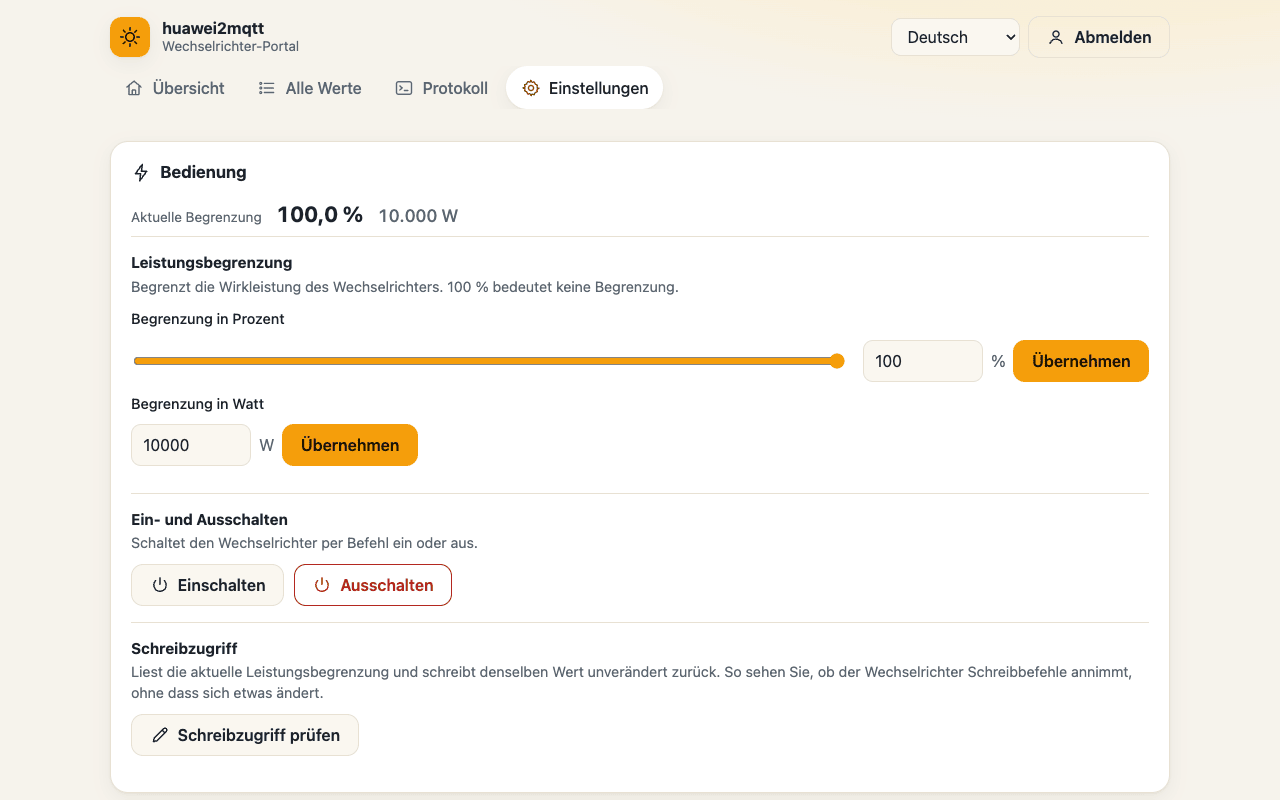
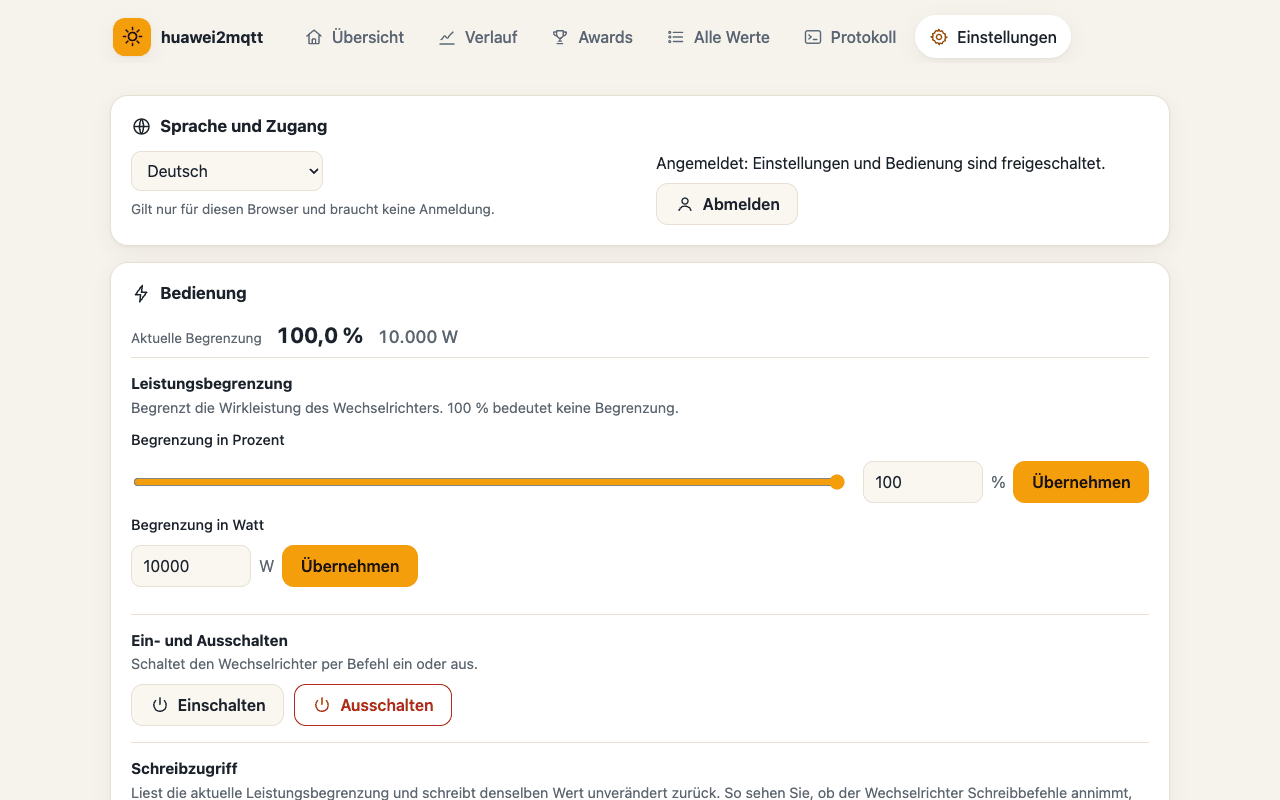
fix(REQ-024,REQ-028): Spitzen-Uhrzeit mobil unter dem Wert; docs(REQ-031): neue Screenshots inkl. Verlauf und Awards
Claude-Session: https://claude.ai/code/session_01X5kKRYZkw7YbdxUUKAwNhY

diff --git a/web/static/app.css b/web/static/app.css
@@ -140,7 +140,8 @@ main { max-width: 1100px; margin: 0 auto; padding: 1rem 1.25rem 3rem; outline: n
   .hero-side { width: 100%; align-items: center; }
   .state-pill { align-self: center; }
   .kpis { width: 100%; grid-template-columns: 1fr 1fr; }
-  .kpi:nth-child(3) { grid-column: 1 / -1; flex-direction: row; align-items: baseline; justify-content: space-between; gap: .75rem; }
+  .kpi:nth-child(3) { grid-column: 1 / -1; }
+  .kpi-v small.at { display: block; margin-left: 0; }
   .big { font-size: 2.5rem; }
   .kpi-v { font-size: 1.3rem; }
 }

diff --git a/tests/ui/make_screenshots.py b/tests/ui/make_screenshots.py
@@ -40,9 +40,11 @@ def login(page):
     page.wait_for_selector("#btn-auth-label:has-text('Abmelden')")
 
 
-def shot(page, route, name, wait=1200):
+def shot(page, route, name, wait=1200, countdown=False):
     page.goto(URL + "#" + route)
     page.wait_for_timeout(wait)
+    if countdown:  # Countdown mit Zahl abwarten (nicht "Aktualisierung läuft")
+        page.wait_for_function("/\\d+\\s*s/.test(document.getElementById('age').textContent)", timeout=15000)
     page.screenshot(path=str(OUT / name))
     print("ok", name)
 
@@ -68,7 +70,7 @@ def main():
             for scheme in ("light", "dark"):
                 ctx = b.new_context(color_scheme=scheme, **desk)
                 pg = ctx.new_page()
-                shot(pg, "overview", f"overview-{scheme}.png", 1500)
+                shot(pg, "overview", f"overview-{scheme}.png", 1500, countdown=True)
                 if scheme == "light":
                     shot(pg, "values", "values.png")
                     shot(pg, "log", "log.png")
@@ -83,7 +85,7 @@ def main():
                                     color_scheme=scheme, has_touch=True, is_mobile=True)
                 pg = ctx.new_page()
                 if scheme == "light":
-                    shot(pg, "overview", "mobile.png", 1500)
+                    shot(pg, "overview", "mobile.png", 1500, countdown=True)
                 shot(pg, "history", f"history-mobile-{scheme}.png", 2000)
                 shot(pg, "awards", f"awards-mobile-{scheme}.png", 1500)
                 ctx.close()
